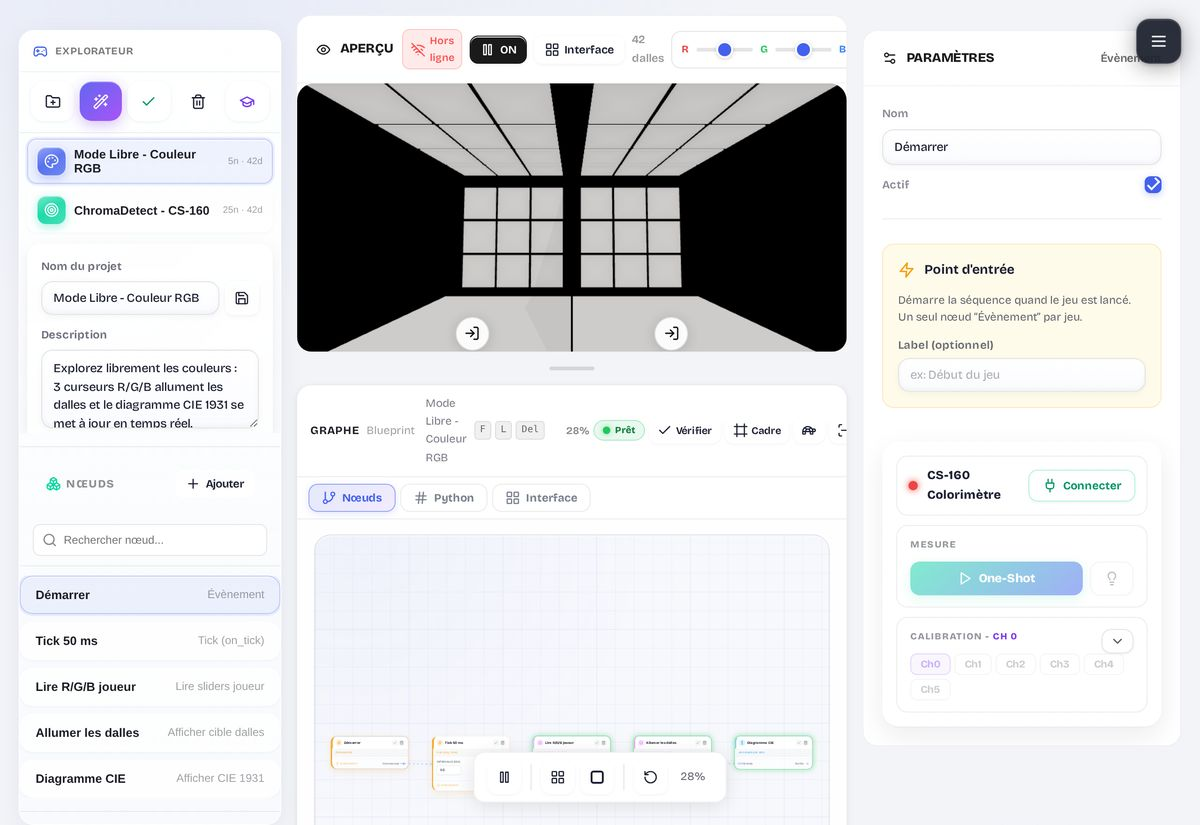
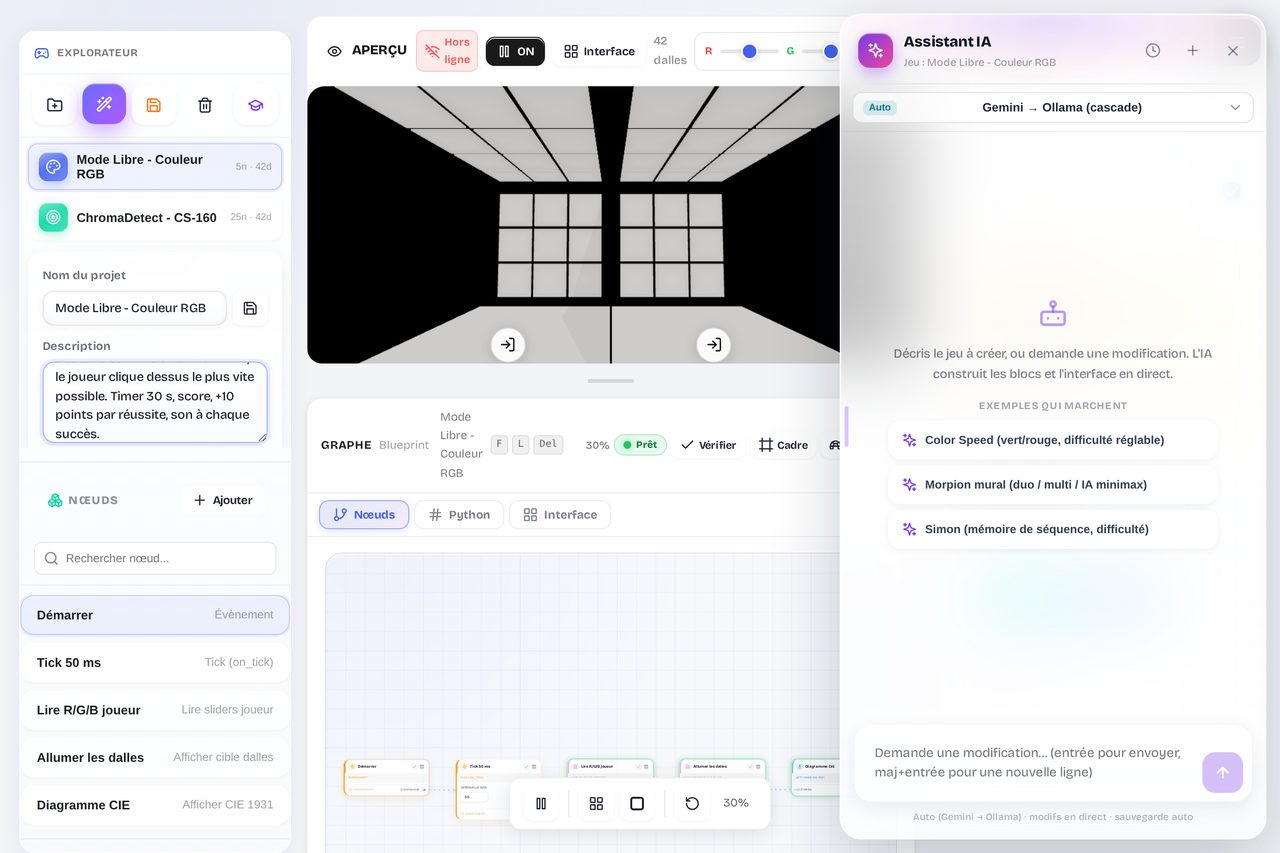
docs(presentation): editeur avec panneau Assistant IA, fusion aide+qualite (doublon image), suppression Bilan et Merci -> 46 slides

diff --git a/scripts/make_final.py b/scripts/make_final.py
@@ -748,18 +748,12 @@ S.append(diagram("Diagramme d'activité","Remappage des canaux LED",IMG['remap']
    "Application des <b>profils</b> (longueur d'onde réelle)",
    "Envoi de la trame au matériel (proxy supervision)")))
 
-# 27b AIDE
-S.append(media_slide("Ma partie · aide intégrée","Documentation pour l'apprenant",
- '''<ul><li>Page <b>/aide</b> embarquée : comment jouer, mesurer, lire le diagramme CIE</li>
-   <li>Accessible <b>hors-ligne</b>, directement dans l'app</li>
-   <li>Complète le <b>manuel d'installation</b> (README) et les 15 diagrammes UML</li></ul>''',IMG['aide'],"file-text",ratio="0 0 46%"))
-
-# 28 DOC
-S.append(media_slide("Ma partie · qualité","Documentation et robustesse",
- '''<ul><li>Notice apprenant intégrée (page /aide)</li>
-   <li>Manuel d'installation (README) : Docker, dev, service permanent</li>
-   <li>Migrations idempotentes · <b>transactions ACID</b></li>
-   <li class="sub">Connexion SQLite en singleton · exports UTF-8 + BOM</li></ul>''',IMG['aide'],"file-text",ratio="0 0 46%"))
+# 27b AIDE + QUALITE (fusion : une seule slide, image /aide)
+S.append(media_slide("Ma partie · aide &amp; qualité","Documentation et robustesse",
+ '''<ul><li>Page <b>/aide</b> embarquée (hors-ligne) : comment jouer, mesurer, lire le diagramme CIE</li>
+   <li><b>Documentation</b> rédigée par moi : guide technique, <b>15 diagrammes UML</b>, README d'installation</li>
+   <li>Robustesse : <b>migrations idempotentes</b>, <b>transactions ACID</b>, connexion SQLite en <b>singleton</b></li>
+   <li class="sub">Vérif <b>types (tsc)</b> + build prod à chaque étape · exports CSV UTF-8 + BOM · tests API (E4)</li></ul>''',IMG['aide'],"file-text",ratio="0 0 48%"))
 
 # 29 DIFFICULTES
 S.append(slide(head("Démarche d'ingénieur","Difficultés rencontrées et solutions","flask-conical",me=True)+
@@ -797,24 +791,8 @@ S.append(slide(head("Notes réseau · ouvrir les ports (Windows)","Rendre l'API 
  f'<div class="body"><div class="col" style="flex:0 0 36%;min-width:0;display:flex;flex-direction:column;justify-content:center">{_winbull}{_winsrc}</div>'
  f'<div class="col" style="flex:1;min-width:0;display:flex;align-items:center">{_wincard}</div></div>'))
 
-# 30 BILAN
-S.append(slide(head("Conclusion","Bilan et perspectives","chart-column")+
- '''<div class="body"><div class="col"><div class="lab a">Objectifs E2 atteints</div><ul>
-   <li>Interface, base de données et comptes opérationnels</li>
-   <li>Jeux solo, IA Puissance 4 et multijoueur</li>
-   <li>Mesure CS-160 et diagramme CIE</li>
-   <li>Documentation et déploiement Docker</li></ul></div>
-   <div class="col"><div class="lab b">Perspectives</div><ul>
-   <li>Salons multijoueur avec codes de partie</li>
-   <li>Nouveaux jeux pédagogiques et tutoriels</li>
-   <li>Tests automatisés (CI/CD)</li>
-   <li class="sub">Exploration : génération de jeux par IA locale (Ollama)</li></ul></div></div>'''))
-
-# 31 DEMO
+# 31 DEMO (slide-pont vers la démonstration)
 S.append(slide('<div class="body center"><div class="hicon" style="width:64px;height:64px;border-radius:18px;margin-bottom:6px">'+ic("eye")+'</div><div class="kick">Place à la</div><div class="big">Démonstration</div><p style="color:var(--muted);font-size:16px;margin-top:12px;max-width:760px;line-height:1.8">Connexion · catalogue et un jeu sur les dalles · Puissance 4 contre l’IA · un jeu multijoueur · mesure CS-160 et diagramme CIE · tableau de bord enseignant</p></div>'))
-
-# 32 MERCI
-S.append(slide('<div class="body center"><div class="dash" style="justify-content:center"><i style="background:var(--r)"></i><i style="background:var(--y)"></i><i style="background:var(--g)"></i><i style="background:var(--b)"></i><i style="background:var(--accent)"></i></div><div class="big" style="margin-top:8px">Merci de votre attention</div><div style="color:var(--accent);font-weight:700;font-size:21px;margin-top:12px;font-family:Bricolage Grotesque,Inter,sans-serif">Avez-vous des questions ?</div><div style="position:absolute;bottom:28px;left:0;right:0;text-align:center;color:var(--muted);font-size:13px">ColorRoom · Téo Trompier (E2) · BTS CIEL option IR · Session 2026</div></div>'))
 
 # 33 VIDEO (a lancer en fin de presentation)
 S.append(slide('<div class="body center">'